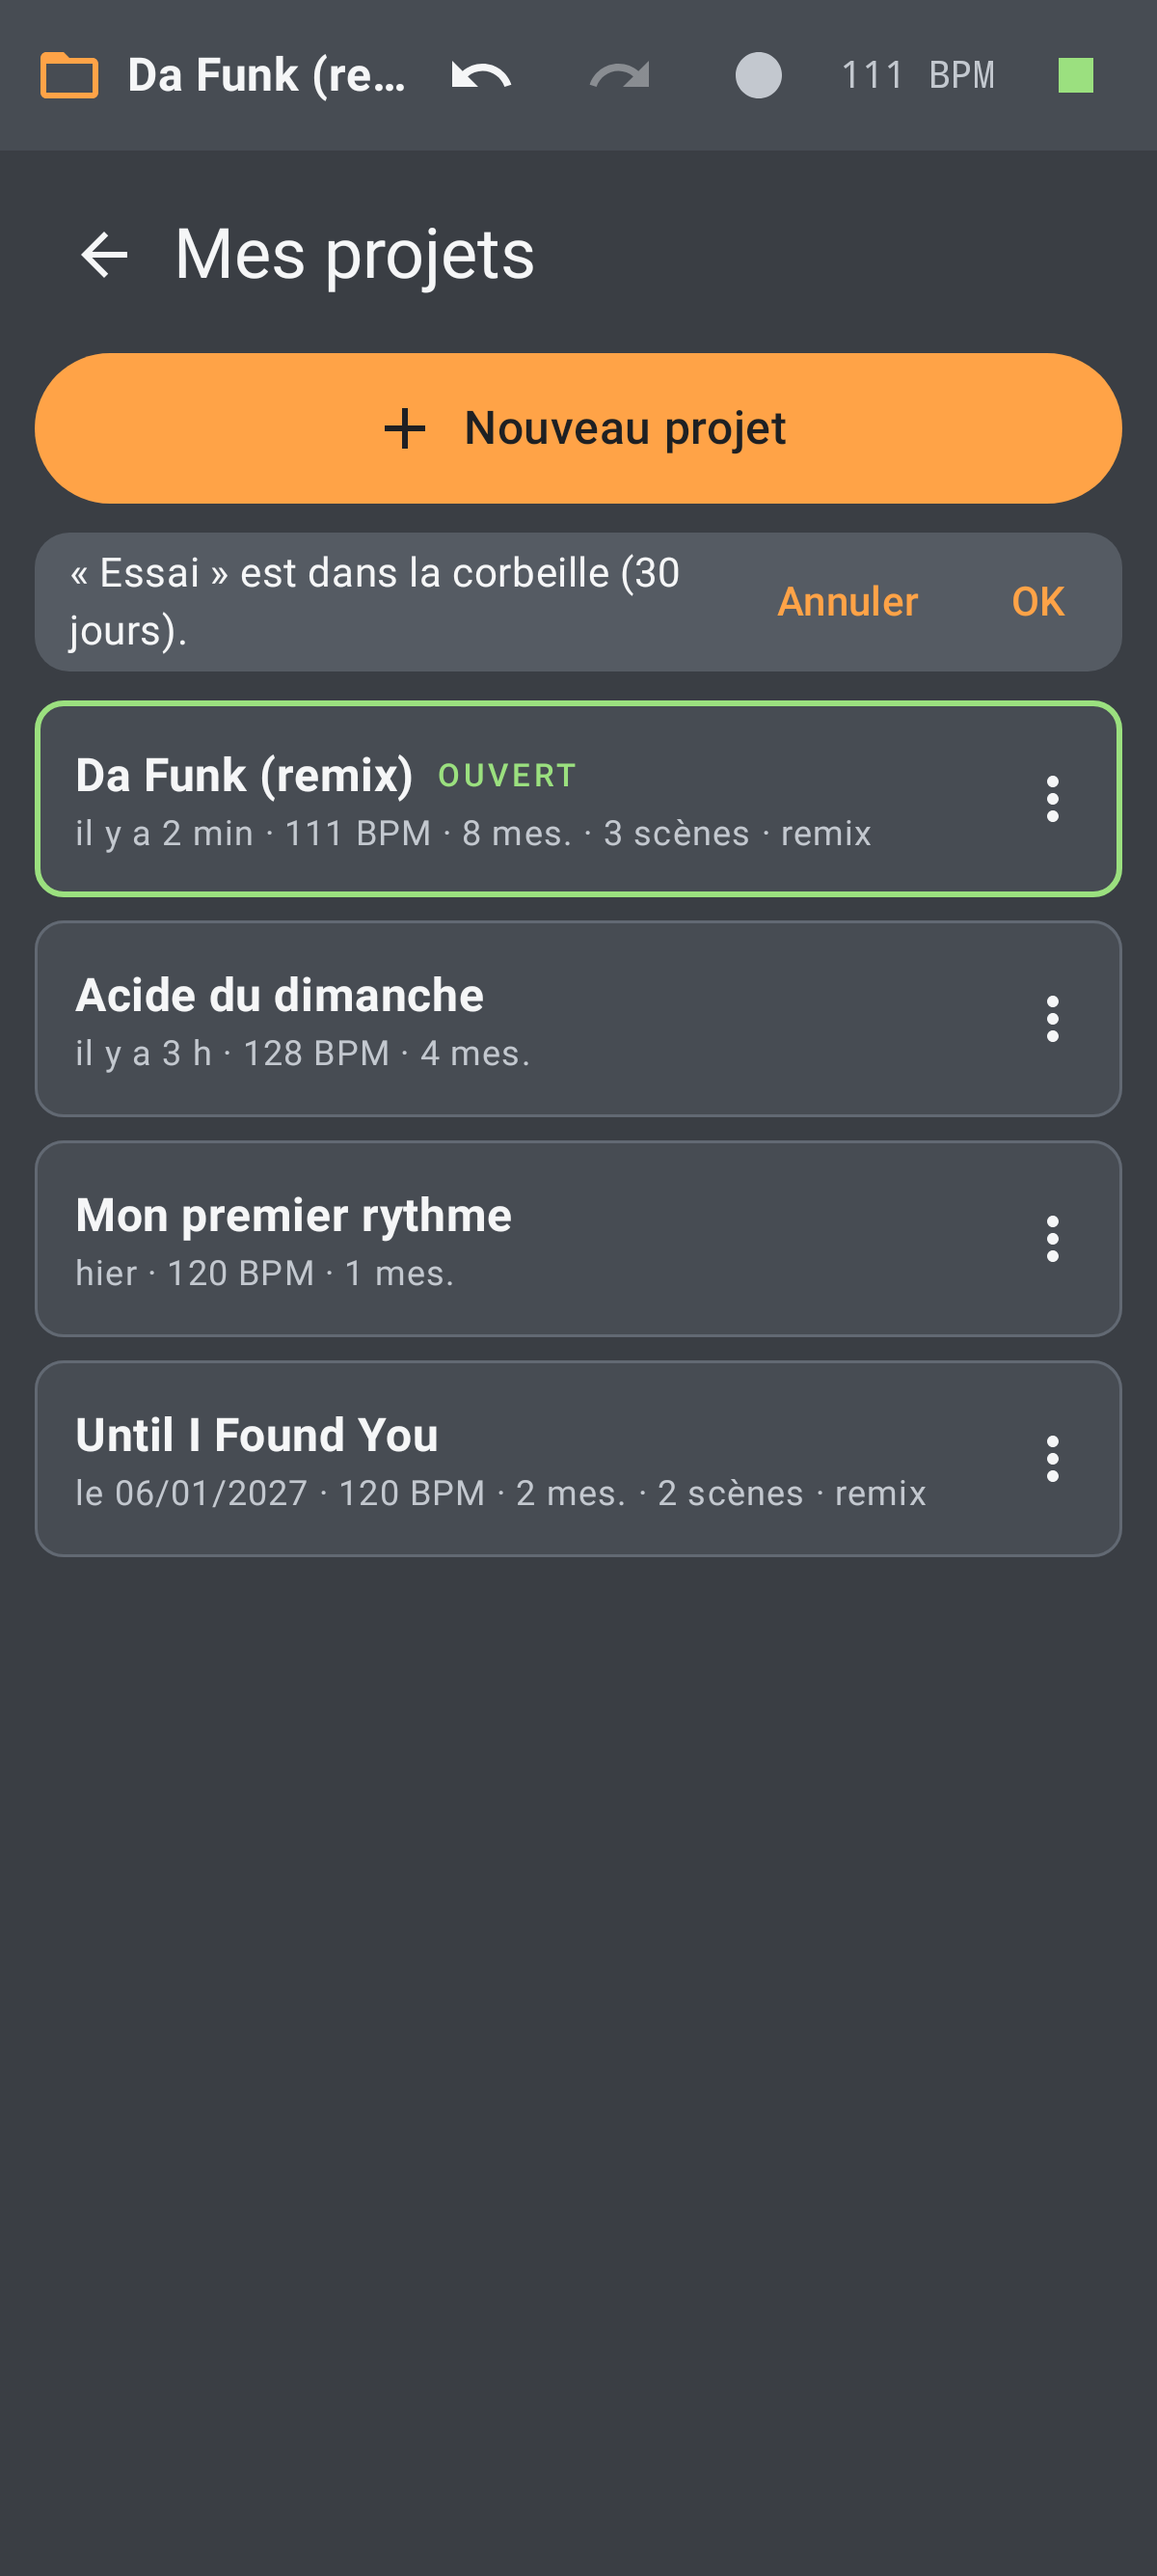
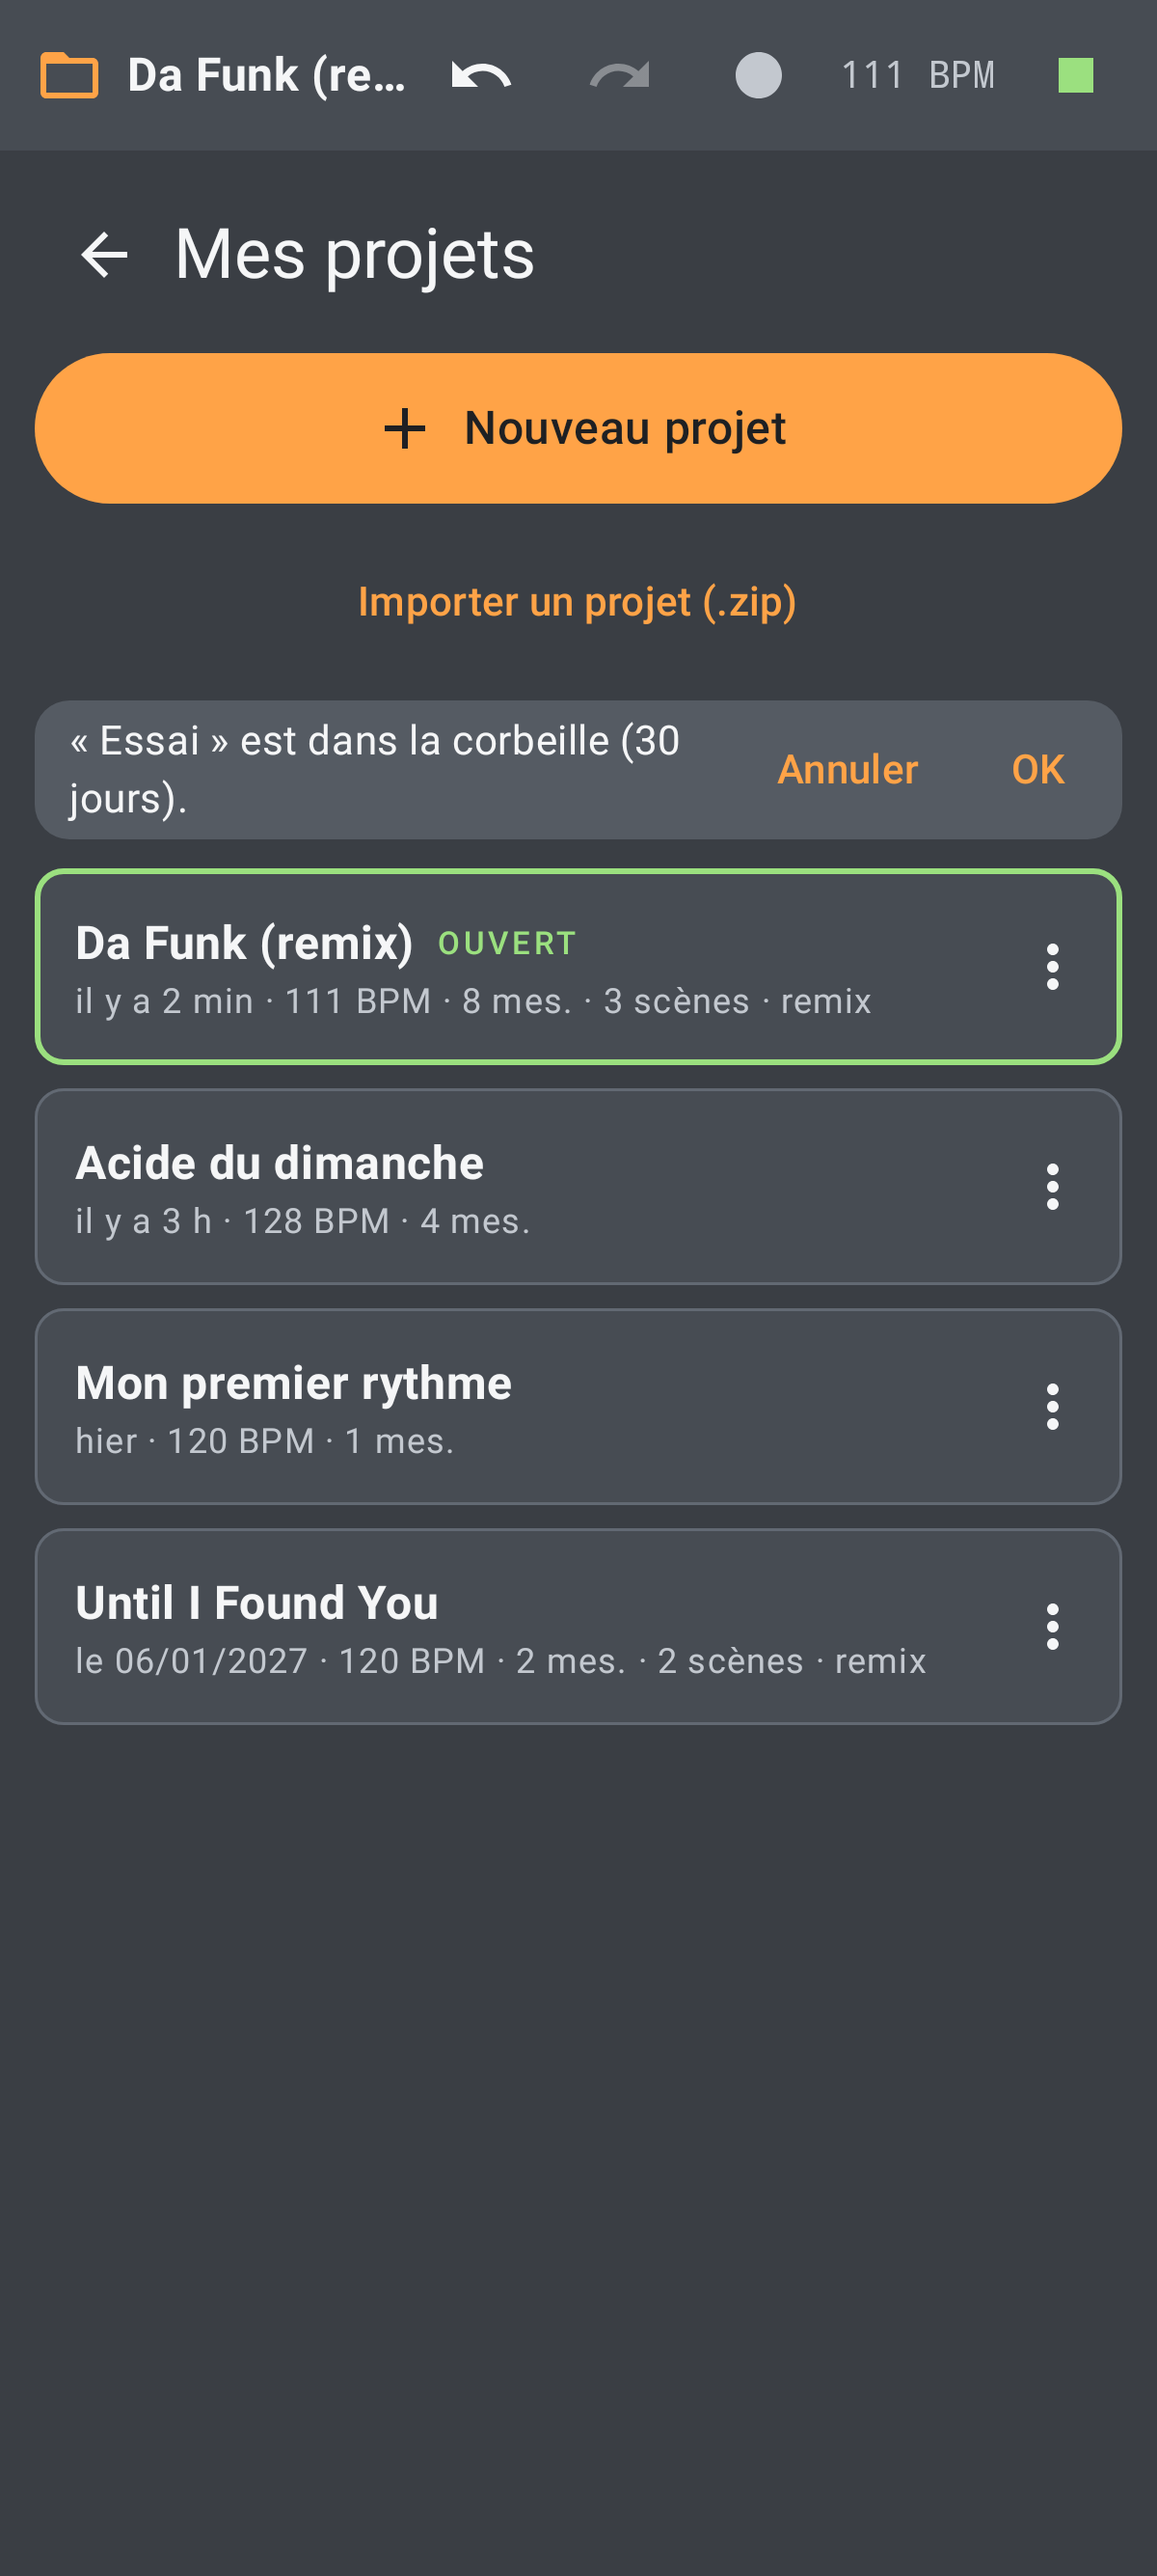
Projects: send/back up a project as .zip, import one as a new project
Claude-Session: https://claude.ai/code/session_01NqonxZBBysqqWBbnsC2VTP

diff --git a/project-model/src/main/kotlin/com/pocketstudio/model/ProjectCatalog.kt b/project-model/src/main/kotlin/com/pocketstudio/model/ProjectCatalog.kt
@@ -97,6 +97,70 @@ class ProjectCatalog(private val root: File, private val trash: File) {
         }
     }
 
+    /** The project and its sounds as a .zip (project.json + samples/…), for a backup or another phone. */
+    @Throws(IOException::class)
+    fun exportZip(id: String, out: java.io.OutputStream) {
+        val project = store.load(id) ?: throw IOException("projet introuvable")
+        java.util.zip.ZipOutputStream(out.buffered()).use { zip ->
+            zip.putNextEntry(java.util.zip.ZipEntry(ProjectStore.MAIN))
+            zip.write(ProjectJson.encode(project).toByteArray(Charsets.UTF_8))
+            zip.closeEntry()
+            val used = project.sampleFiles
+            File(store.folder(id), SAMPLES).listFiles()?.filter { it.name in used }?.sortedBy { it.name }?.forEach { f ->
+                zip.putNextEntry(java.util.zip.ZipEntry("$SAMPLES/${f.name}"))
+                f.inputStream().use { it.copyTo(zip) }
+                zip.closeEntry()
+            }
+        }
+    }
+
+    /**
+     * A project .zip made by [exportZip] becomes a new project (never replaces one); returns its
+     * id. Only project.json and plain sample files are read; size limits guard the phone.
+     */
+    @Throws(IOException::class)
+    fun importZip(input: java.io.InputStream): String {
+        val id = newId()
+        val dir = store.folder(id)
+        var project: Project? = null
+        var total = 0L
+        try {
+            java.util.zip.ZipInputStream(input.buffered()).use { zip ->
+                while (true) {
+                    val entry = zip.nextEntry ?: break
+                    if (entry.isDirectory) continue
+                    val name = entry.name.replace('\\', '/')
+                    val target = when {
+                        name == ProjectStore.MAIN -> null
+                        name.startsWith("$SAMPLES/") && PadSample(name.removePrefix("$SAMPLES/"), "").isSafe ->
+                            File(dir, name).also { it.parentFile.mkdirs() }
+                        else -> continue  // anything else in the archive is ignored
+                    }
+                    val bytes = java.io.ByteArrayOutputStream()
+                    val buf = ByteArray(64 * 1024)
+                    var size = 0L
+                    while (true) {
+                        val n = zip.read(buf)
+                        if (n < 0) break
+                        size += n
+                        total += n
+                        if (size > MAX_ZIP_ENTRY || total > MAX_ZIP_TOTAL) throw IOException("projet trop gros")
+                        if (target == null) bytes.write(buf, 0, n) else target.appendBytes(buf.copyOf(n))
+                    }
+                    if (target == null) project = ProjectJson.decode(bytes.toString(Charsets.UTF_8.name()))
+                }
+            }
+            val p = project ?: throw IOException("ce .zip n'est pas un projet Pocket Studio")
+            val missing = p.sampleFiles.filterNot { File(dir, "$SAMPLES/$it").exists() }
+            if (missing.isNotEmpty()) throw IOException("${missing.size} son(s) manquant(s) dans le .zip")
+            store.save(id, p)
+            return id
+        } catch (e: Exception) {
+            dir.deleteRecursively()
+            throw if (e is IOException) e else IOException(e.message ?: "fichier illisible")
+        }
+    }
+
     /** "Mon projet 3": the first free number among the existing names. */
     fun nextName(prefix: String = "Mon projet"): String {
         val names = list().map { it.name }.toSet()
@@ -109,5 +173,7 @@ class ProjectCatalog(private val root: File, private val trash: File) {
         const val SAMPLES = "samples"
         const val MAX_NAME = 40
         const val TRASH_DAYS = 30L
+        const val MAX_ZIP_ENTRY = 128L * 1024 * 1024
+        const val MAX_ZIP_TOTAL = 1024L * 1024 * 1024
     }
 }

diff --git a/app/src/main/java/com/pocketstudio/app/projects/ProjectsScreen.kt b/app/src/main/java/com/pocketstudio/app/projects/ProjectsScreen.kt
@@ -57,6 +57,9 @@ class ProjectsActions(
     val create: (Int) -> Unit = {},
     val rename: (ProjectInfo, String) -> Unit = { _, _ -> },
     val duplicate: (ProjectInfo) -> Unit = {},
+    /** Share the project and its sounds as a .zip. */
+    val exportZip: (ProjectInfo) -> Unit = {},
+    val importZip: () -> Unit = {},
     val delete: (ProjectInfo) -> Unit = {},
     val undoDelete: () -> Unit = {},
     val dismissDeleted: () -> Unit = {},
@@ -79,6 +82,9 @@ fun ProjectsScreen(ui: ProjectsUi, currentId: String, starters: List<ProjectStar
             Icon(Icons.Filled.Add, contentDescription = null)
             Text("  Nouveau projet", style = MaterialTheme.typography.titleMedium)
         }
+        TextButton(onClick = actions.importZip, modifier = Modifier.fillMaxWidth().testTag("project_import")) {
+            Text("Importer un projet (.zip)")
+        }
         ui.deleted?.let { (_, name) ->
             Card(colors = CardDefaults.cardColors(containerColor = Neon.SurfaceHigh), modifier = Modifier.testTag("project_deleted")) {
                 Row(Modifier.padding(start = 12.dp), verticalAlignment = Alignment.CenterVertically) {
@@ -89,7 +95,8 @@ fun ProjectsScreen(ui: ProjectsUi, currentId: String, starters: List<ProjectStar
             }
         }
         ui.message?.let {
-            Text(it, color = Neon.Amber, style = MaterialTheme.typography.bodySmall, modifier = Modifier.clickable(onClick = actions.dismissMessage))
+            Text(it, color = if (it.startsWith("Projet importé")) Neon.Acid else Neon.Amber, style = MaterialTheme.typography.bodySmall,
+                modifier = Modifier.clickable(onClick = actions.dismissMessage))
         }
         if (!ui.loading && ui.projects.isEmpty()) {
             Text("Aucun projet enregistré pour l'instant.", color = Neon.TextSecondary)
@@ -173,6 +180,7 @@ private fun ProjectCard(p: ProjectInfo, open: Boolean, now: Long, actions: Proje
                 DropdownMenu(expanded = menu, onDismissRequest = { menu = false }) {
                     DropdownMenuItem(text = { Text("Renommer") }, onClick = { menu = false; onRename() })
                     DropdownMenuItem(text = { Text("Dupliquer") }, onClick = { menu = false; actions.duplicate(p) })
+                    DropdownMenuItem(text = { Text("Envoyer / sauvegarder (.zip)") }, onClick = { menu = false; actions.exportZip(p) })
                     DropdownMenuItem(
                         text = { Text(if (open) "Supprimer (ouvre d'abord un autre projet)" else "Supprimer") },
                         enabled = !open,

diff --git a/project-model/src/test/kotlin/com/pocketstudio/model/ProjectCatalogTest.kt b/project-model/src/test/kotlin/com/pocketstudio/model/ProjectCatalogTest.kt
@@ -49,6 +49,33 @@ class ProjectCatalogTest {
     }
 
     @Test
+    fun zipRoundTripKeepsTheProjectAndItsSounds() {
+        val p = Project(name = "Voyage", drums = DrumPattern().withSample(0, PadSample("kick.wav", "Kick")))
+        val a = catalog.create(p)
+        File(catalog.store.folder(a), "samples").apply { mkdirs() }.resolve("kick.wav").writeText("boum")
+        File(catalog.store.folder(a), "samples/old.wav").writeText("plus utilisé")
+        val bytes = java.io.ByteArrayOutputStream().also { catalog.exportZip(a, it) }.toByteArray()
+        val b = catalog.importZip(bytes.inputStream())
+        assertNotEquals(a, b)
+        assertEquals("Voyage", catalog.store.load(b)!!.name)
+        assertEquals("boum", File(catalog.store.folder(b), "samples/kick.wav").readText())
+        assertFalse(File(catalog.store.folder(b), "samples/old.wav").exists())  // unused sounds stay home
+        // Not a project, or a project missing its sound: refused, nothing left behind.
+        val before = catalog.list().size
+        assertTrue(runCatching { catalog.importZip("pas un zip".byteInputStream()) }.isFailure)
+        val noSound = java.io.ByteArrayOutputStream().also { out ->
+            java.util.zip.ZipOutputStream(out).use { z ->
+                z.putNextEntry(java.util.zip.ZipEntry("project.json")); z.write(ProjectJson.encode(p).toByteArray()); z.closeEntry()
+                z.putNextEntry(java.util.zip.ZipEntry("../../evil.wav")); z.write(1); z.closeEntry()
+            }
+        }.toByteArray()
+        assertTrue(runCatching { catalog.importZip(noSound.inputStream()) }.isFailure)
+        assertEquals(before, catalog.list().size)
+        assertFalse(File(dir, "evil.wav").exists())
+        dir.deleteRecursively()
+    }
+
+    @Test
     fun unreadableProjectsAreListedNotHidden() {
         val a = catalog.create(Project(name = "Ok"))
         File(catalog.store.folder("p-broken"), ProjectStore.MAIN).apply { parentFile.mkdirs() }.writeText("{ pas du json")

diff --git a/app/src/main/java/com/pocketstudio/app/ui/AppRoot.kt b/app/src/main/java/com/pocketstudio/app/ui/AppRoot.kt
@@ -159,6 +159,9 @@ fun AppRoot() {
     var tab by rememberSaveable { mutableStateOf(AppTab.Rythme) }
     var showProjects by rememberSaveable { mutableStateOf(false) }
     val projectsVm: ProjectsViewModel = viewModel()
+    val pickProjectZip = rememberLauncherForActivityResult(ActivityResultContracts.OpenDocument()) { uri ->
+        if (uri != null) projectsVm.importZip(uri)
+    }
     val openScope = rememberCoroutineScope()
     // Another project: save this one, remember the choice, then rebuild every screen on it.
     val openProject: (String) -> Unit = { id ->
@@ -189,6 +192,13 @@ fun AppRoot() {
                         create = { i -> projectsVm.create(PROJECT_STARTERS[i].second()) { id -> openProject(id) } },
                         rename = { p, name -> if (p.id == rhythmVm.projectId) { rhythmVm.renameProject(name); projectsVm.refresh() } else projectsVm.rename(p.id, name) },
                         duplicate = { p -> openScope.launch { if (p.id == rhythmVm.projectId) rhythmVm.flushNow(); projectsVm.duplicate(p) } },
+                        exportZip = { p ->
+                            openScope.launch {
+                                if (p.id == rhythmVm.projectId) rhythmVm.flushNow()
+                                projectsVm.exportZip(p) { file -> WavExporter.share(context, listOf(file), "Envoyer le projet") }
+                            }
+                        },
+                        importZip = { pickProjectZip.launch(arrayOf("application/zip", "application/x-zip-compressed", "application/octet-stream")) },
                         delete = projectsVm::delete,
                         undoDelete = projectsVm::undoDelete,
                         dismissDeleted = projectsVm::dismissDeleted,

diff --git a/app/src/main/java/com/pocketstudio/app/projects/ProjectsViewModel.kt b/app/src/main/java/com/pocketstudio/app/projects/ProjectsViewModel.kt
@@ -68,6 +68,27 @@ class ProjectsViewModel(app: Application) : AndroidViewModel(app) {
         refreshNow()
     }
 
+    /** The project and its sounds as a .zip in the export folder; [then] gets the file (to share it). */
+    fun exportZip(info: ProjectInfo, then: (File) -> Unit) = io("Export du projet") {
+        val app = getApplication<Application>()
+        val dir = File(app.cacheDir, "exports").apply { mkdirs() }
+        val safe = info.name.replace(Regex("[^\\p{L}\\p{N} _-]"), "").trim().replace(' ', '-').take(40).ifEmpty { "projet" }
+        val file = File(dir, "$safe.pocketstudio.zip")
+        file.outputStream().use { catalog.exportZip(info.id, it) }
+        AppLog.add("Projet exporté : ${file.length() / 1024} Ko")
+        withContext(Dispatchers.Main) { then(file) }
+    }
+
+    /** A project .zip (from this app) becomes a new project in the list. */
+    fun importZip(uri: android.net.Uri) = io("Import du projet") {
+        val app = getApplication<Application>()
+        val stream = app.contentResolver.openInputStream(uri) ?: throw java.io.IOException("fichier introuvable")
+        val id = stream.use { catalog.importZip(it) }
+        AppLog.add("Projet importé")
+        _state.value = _state.value.copy(message = "Projet importé : « ${catalog.info(id)?.name} ». Touche-le pour l'ouvrir.")
+        refreshNow()
+    }
+
     fun undoDelete() {
         val (entry, _) = _state.value.deleted ?: return
         io("Restauration") {

diff --git a/docs/DECISIONS.md b/docs/DECISIONS.md
@@ -106,3 +106,4 @@
 | 2026-10-20 | Plusieurs projets : un dossier par projet, le dernier ouvert est mémorisé ; ouvrir un autre projet enregistre l'actuel puis reconstruit les écrans (ViewModels neufs) ; supprimer = corbeille 30 jours | Repartir de zéro est plus sûr que vider à la main un état très riche (sons, pistes, scènes) | Changer de projet sans reconstruire |
 | 2026-10-20 | Enregistrement en direct (bouton ● en haut) : notes du clavier et du MIDI vers le piano roll (départ calé à la double-croche, durée gardée), coups de pads et canal 10 vers la grille ; par-dessus l'existant ; une prise = un seul Annuler ; décompte d'une mesure si arrêté | Comme FL Studio Mobile (enregistrement en boucle par-dessus) ; la position vient du moteur (à un bloc près) | Remplacer au lieu d'ajouter ; ne pas caler |
 | 2026-10-20 | Export : la boucle, le morceau entier (scènes enchaînées par le moteur hors ligne, sans coupure de réverbe) ou piste par piste (une voie du mixeur en solo par fichier) ; WAV 24 bits ou M4A 256 kbit/s (encodeur AAC d'Android) ; pas de MP3 (aucun encodeur dans Android) ni de FLAC pour l'instant | Comme FL Studio Mobile, sans bibliothèque en plus | Ajouter LAME (MP3) si demandé |
+| 2026-10-20 | Projet en .zip (project.json + sons utilisés) pour sauvegarder ou changer de téléphone ; l'import crée toujours un nouveau projet, ne lit que project.json et des noms de sons simples, refuse un projet à qui il manque un son | Rien ne peut écraser un projet existant ni écrire ailleurs | — |
